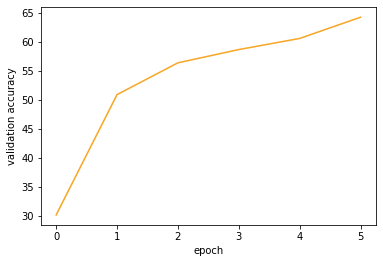
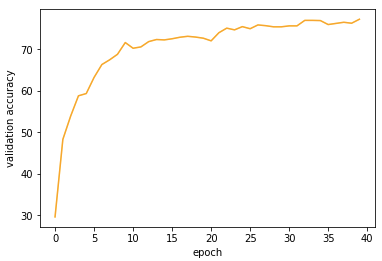
updated 2d all

diff --git a/README.md b/README.md
@@ -78,7 +78,7 @@ We also tried many different variations for our classifier model, which includes
 | Ground-Truth-Skeletons - 49 classes			|	2-Stacked LSTMs, 3D coordinates				|	59.7%, 72.5%				|
 | Hourglass-Predicted-Skeletons - 8 classes		|	2-Stacked LSTMs, 3D coordinates				|	81.25% 						|
 | Hourglass-Predicted-Skeletons - 8 classes		|	2D + 3D Projection LSTMs + 1D conv + fusion	|	82.57% 						|
-| Hourglass-Predicted-Skeletons - 8 classes		|	All 2D Projection LSTMs + 1D conv + fusion	|	64.23% 						|
+| Hourglass-Predicted-Skeletons - 8 classes		|	All 2D Projection LSTMs + 1D conv + fusion	|	77.235% 						|
 | Hourglass-Predicted-Skeletons - 8 classes		|   X-Y projection only + 1D conv 				|	75.36%						|
 | Hourglass-Predicted-Skeletons - 8 classes		|   Y-Z projection only + 1D conv 				|	72.94%						|
 | Hourglass-Predicted-Skeletons - 8 classes   |   Z-Y projection only + 1D conv         | 73.86%            |
@@ -98,7 +98,7 @@ For the above mentioned 8 classes, some of the top accuracies models and their l
   <img src='./outputs/plots/acc_classifierX3.png' style="width: 300px;" />
 </p>
 
-* <i>all 2D projections (64.23% accuracy)</i>
+* <i>all 2D projections (77.235% accuracy)</i>
 <p align='float'>
   <img src='./outputs/plots/av_classifierX32d_all.png' style="width: 300px;" />
   <img src='./outputs/plots/acc_classifierX32d_all.png' style="width: 300px;" />
@@ -118,8 +118,8 @@ For the above mentioned 8 classes, some of the top accuracies models and their l
 
 * <i>Simple 2-Stacked LSTM on entire estimated data (54.5% accuracy)</i>
 <p align='float'>
-  <img src='./outputs/plots/lossEntireEstimatedDataSimpleLSTM.png' style="width: 300px;" />
-  <img src='./outputs/plots/accuraciesEntireEstimatedDataSimpleLSTM.png' style="width: 300px;" />
+  <img src='./outputs/plots/lossEstimatedEntireDataSimpleLSTM.png' style="width: 300px;" />
+  <img src='./outputs/plots/accuraciesEstimatedEntireDataSimpleLSTM.png' style="width: 300px;" />
 </p>
 
 
